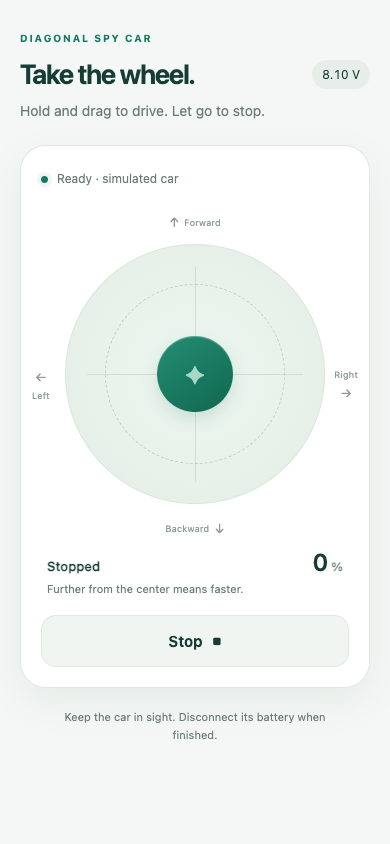
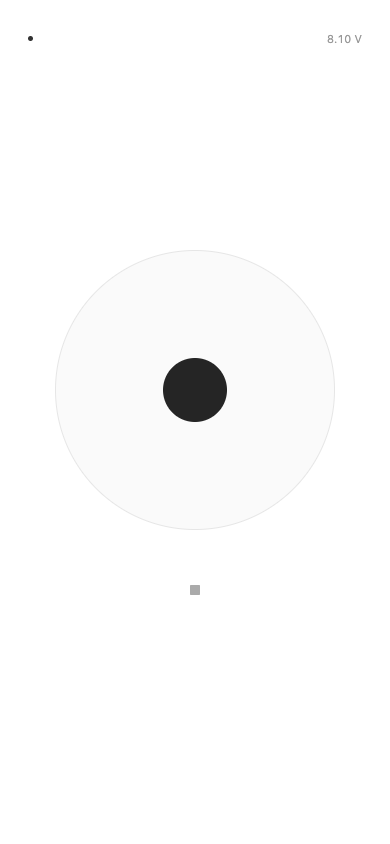
style: strip remote control down to a minimal joystick

diff --git a/firmware/receiver_s2/web/style.css b/firmware/receiver_s2/web/style.css
@@ -1,2 +1,77 @@
-:root{color-scheme:light;--ink:#163c36;--muted:#6b7d76;--teal:#167961;--knob-x:0px;--knob-y:0px;font-family:ui-sans-serif,system-ui,-apple-system,BlinkMacSystemFont,"Segoe UI",sans-serif;background:#f4f7f5;color:var(--ink)}
-*{box-sizing:border-box}body{margin:0;min-height:100dvh;padding:32px 20px max(24px,env(safe-area-inset-bottom));overscroll-behavior:none}.controller{max-width:420px;margin:auto}.eyebrow{font-size:10px;font-weight:750;letter-spacing:.18em;margin:0 0 14px;color:var(--teal)}.heading{display:flex;align-items:center;justify-content:space-between;gap:12px}h1{font-size:clamp(26px,7vw,32px);letter-spacing:-.045em;font-weight:650;margin:0}.battery{font-size:12px;font-variant-numeric:tabular-nums;background:#e7eee9;padding:7px 10px;border-radius:20px;white-space:nowrap}.intro{font-size:14px;color:var(--muted);margin:10px 0 24px;line-height:1.5}.drive-card{background:#fff;border:1px solid #e0e8e2;border-radius:26px;padding:22px 20px 20px;box-shadow:0 14px 38px #173f3210}.status-row{display:flex;align-items:center;gap:9px;min-height:22px}.status-dot{width:7px;height:7px;border-radius:50%;background:#b4bdb7;flex-shrink:0}.status-dot.ready{background:var(--teal);box-shadow:0 0 0 4px #16796112}#status{margin:0;font-size:12px;color:var(--muted);line-height:1.4}.joystick-area{position:relative;margin:24px auto 12px;padding:30px 24px 32px;max-width:330px}.joystick{position:relative;width:100%;aspect-ratio:1;border-radius:50%;background:radial-gradient(circle,#edf6f0 0,#e6f0e8 72%);border:1px solid #d8e7dc;touch-action:none;user-select:none;-webkit-user-select:none;cursor:grab;overflow:hidden;transition:opacity .15s}.joystick[aria-disabled=true]{opacity:.45;cursor:not-allowed}.joystick.held{cursor:grabbing}.joystick-ring{position:absolute;inset:15%;border:1px dashed #bdcfc3;border-radius:50%}.crosshair{position:absolute;background:#cddfd2}.horizontal{top:50%;height:1px;left:8%;right:8%}.vertical{left:50%;width:1px;top:8%;bottom:8%}.knob{position:absolute;width:76px;height:76px;left:calc(50% - 38px);top:calc(50% - 38px);border-radius:50%;background:linear-gradient(145deg,#238f74,#11664f);box-shadow:0 7px 16px #11664f28,inset 0 1px 1px #ffffff50;display:grid;place-items:center;transform:translate(var(--knob-x),var(--knob-y));pointer-events:none}.knob-mark{color:#c9eee0;font-size:25px;opacity:.8}.direction{position:absolute;color:#8a9a91;font-size:13px;display:flex;align-items:center;justify-content:center;gap:5px;pointer-events:none}.direction span{font-size:9px;letter-spacing:.015em}.forward{top:0;left:0;right:0}.backward{bottom:0;left:0;right:0}.left{left:-9px;top:48%;flex-direction:column}.right{right:-9px;top:48%;flex-direction:column}.drive-readout{display:flex;justify-content:space-between;align-items:baseline;padding:0 6px;font-size:13px;font-weight:550}#speed{font-size:24px;font-weight:600;font-variant-numeric:tabular-nums}.percent{font-size:12px;color:var(--muted);margin-left:3px}.hint{font-size:11px;color:var(--muted);margin:6px 6px 20px}button{font:inherit;-webkit-tap-highlight-color:transparent}#stop{width:100%;display:flex;justify-content:center;align-items:center;gap:10px;min-height:52px;border:1px solid #e2e8e3;border-radius:15px;color:var(--ink);background:#f1f5f2;font-size:15px;font-weight:650;cursor:pointer}#stop span{font-size:10px}#stop:active{background:#e1eae4}#stop:focus-visible{outline:3px solid #54ad92;outline-offset:3px}footer{font-size:11px;line-height:1.6;color:var(--muted);text-align:center;max-width:290px;margin:20px auto 0}@media(max-height:740px){body{padding-top:20px}.intro{margin-bottom:16px}.drive-card{padding-top:16px}.joystick-area{max-width:285px;margin-top:16px}.hint{margin-bottom:14px}footer{margin-top:14px}}
+:root {
+  color-scheme: light;
+  font-family: ui-sans-serif, system-ui, -apple-system, sans-serif;
+  color: #202020;
+  background: #fff;
+  --knob-x: 0px;
+  --knob-y: 0px;
+}
+* { box-sizing: border-box; }
+body { margin: 0; overscroll-behavior: none; }
+.controller {
+  min-height: 100dvh;
+  max-width: 400px;
+  margin: auto;
+  padding: max(28px, env(safe-area-inset-top)) 28px max(28px, env(safe-area-inset-bottom));
+  display: flex;
+  flex-direction: column;
+}
+.status-row { display: flex; align-items: center; gap: 10px; min-height: 20px; }
+.status-dot { width: 5px; height: 5px; flex-shrink: 0; border-radius: 50%; background: #ccc; }
+.status-dot.ready { background: #333; }
+#status { font-size: 11px; font-weight: 400; color: #888; margin: 0; }
+#battery { margin-left: auto; color: #999; font-size: 11px; font-variant-numeric: tabular-nums; white-space: nowrap; }
+.controls { flex: 1; display: flex; flex-direction: column; justify-content: center; align-items: center; gap: 36px; padding: 28px 0; }
+.joystick {
+  position: relative;
+  width: min(100%, 280px, 55dvh);
+  aspect-ratio: 1;
+  border: 1px solid #e6e6e6;
+  border-radius: 50%;
+  background: #fafafa;
+  touch-action: none;
+  user-select: none;
+  -webkit-user-select: none;
+  cursor: grab;
+  overflow: hidden;
+}
+.joystick[aria-disabled=true] { opacity: .35; cursor: not-allowed; }
+.joystick.held { cursor: grabbing; }
+.knob {
+  position: absolute;
+  width: 64px;
+  height: 64px;
+  left: calc(50% - 32px);
+  top: calc(50% - 32px);
+  border-radius: 50%;
+  background: #252525;
+  transform: translate(var(--knob-x), var(--knob-y));
+  pointer-events: none;
+}
+#stop {
+  display: grid;
+  place-items: center;
+  width: 48px;
+  height: 48px;
+  padding: 0;
+  border: 0;
+  border-radius: 50%;
+  background: transparent;
+  cursor: pointer;
+  touch-action: manipulation;
+  -webkit-tap-highlight-color: transparent;
+}
+#stop span { width: 10px; height: 10px; border-radius: 1px; background: #aaa; }
+#stop:active { background: #f4f4f4; }
+#stop:focus-visible { outline: 1px solid #555; outline-offset: 2px; }
+.sr-only, .status-row:has(.ready) #status {
+  position: absolute;
+  width: 1px;
+  height: 1px;
+  padding: 0;
+  margin: -1px;
+  overflow: hidden;
+  clip-path: inset(50%);
+  white-space: nowrap;
+  border: 0;
+}

diff --git a/firmware/receiver_s2/web/index.html b/firmware/receiver_s2/web/index.html
@@ -3,37 +3,29 @@
 <head>
   <meta charset="utf-8">
   <meta name="viewport" content="width=device-width,initial-scale=1,viewport-fit=cover">
-  <meta name="theme-color" content="#f4f7f5">
+  <meta name="theme-color" content="#ffffff">
   <meta name="control-token" content="%CONTROL_TOKEN%">
-  <title>Spy Car · Drive</title>
+  <title>Spy Car</title>
   <link rel="stylesheet" href="/style.css">
   <script src="/control.js" defer></script>
 </head>
 <body>
-  <main class="controller">
-    <header>
-      <p class="eyebrow">DIAGONAL SPY CAR</p>
-      <div class="heading"><h1>Take the wheel.</h1><span id="battery" class="battery">— V</span></div>
-      <p class="intro">Hold and drag to drive. Let go to stop.</p>
-    </header>
-    <section class="drive-card" aria-label="Driving controls">
-      <div class="status-row"><span id="connection-dot" class="status-dot"></span><p id="status" role="status" aria-live="polite">Connecting…</p></div>
-      <div class="joystick-area">
-        <span class="direction forward">↑ <span>Forward</span></span>
-        <span class="direction left">← <span>Left</span></span>
-        <div id="joystick" class="joystick" role="group" aria-label="Hold and drag joystick" aria-disabled="true" aria-describedby="drive-hint">
-          <div class="crosshair horizontal"></div><div class="crosshair vertical"></div>
-          <div class="joystick-ring"></div>
-          <div id="knob" class="knob"><span class="knob-mark">✦</span></div>
-        </div>
-        <span class="direction right"><span>Right</span> →</span>
-        <span class="direction backward"><span>Backward</span> ↓</span>
+  <main class="controller" aria-label="Car remote control">
+    <div class="status-row">
+      <span id="connection-dot" class="status-dot" aria-hidden="true"></span>
+      <p id="status" role="status" aria-live="polite">Connecting…</p>
+      <span id="battery">— V</span>
+    </div>
+    <div class="controls">
+      <div id="joystick" class="joystick" role="group" aria-label="Hold and drag joystick" aria-disabled="true" aria-describedby="drive-hint">
+        <div id="knob" class="knob"></div>
       </div>
-      <div class="drive-readout"><span id="drive-state">Stopped</span><span><strong id="speed">0</strong><span class="percent">%</span></span></div>
-      <p id="drive-hint" class="hint">Further from the center means faster.</p>
-      <button id="stop" type="button">Stop <span aria-hidden="true">■</span></button>
-    </section>
-    <footer>Keep the car in sight. Disconnect its battery when finished.</footer>
+      <button id="stop" type="button" aria-label="Stop" title="Stop"><span aria-hidden="true"></span></button>
+    </div>
+    <div class="sr-only">
+      <p id="drive-hint">Hold and drag to drive. Further from the center means faster. Release to stop.</p>
+      <span id="drive-state">Stopped</span><span id="speed">0</span>%
+    </div>
   </main>
 </body>
 </html>

diff --git a/firmware/receiver_s2/web_assets.h b/firmware/receiver_s2/web_assets.h
@@ -6,37 +6,29 @@ static const char CONTROL_INDEX[] PROGMEM = R"SPYCAR(<!doctype html>
 <head>
   <meta charset="utf-8">
   <meta name="viewport" content="width=device-width,initial-scale=1,viewport-fit=cover">
-  <meta name="theme-color" content="#f4f7f5">
+  <meta name="theme-color" content="#ffffff">
   <meta name="control-token" content="%CONTROL_TOKEN%">
-  <title>Spy Car · Drive</title>
+  <title>Spy Car</title>
   <link rel="stylesheet" href="/style.css">
   <script src="/control.js" defer></script>
 </head>
 <body>
-  <main class="controller">
-    <header>
-      <p class="eyebrow">DIAGONAL SPY CAR</p>
-      <div class="heading"><h1>Take the wheel.</h1><span id="battery" class="battery">— V</span></div>
-      <p class="intro">Hold and drag to drive. Let go to stop.</p>
-    </header>
-    <section class="drive-card" aria-label="Driving controls">
-      <div class="status-row"><span id="connection-dot" class="status-dot"></span><p id="status" role="status" aria-live="polite">Connecting…</p></div>
-      <div class="joystick-area">
-        <span class="direction forward">↑ <span>Forward</span></span>
-        <span class="direction left">← <span>Left</span></span>
-        <div id="joystick" class="joystick" role="group" aria-label="Hold and drag joystick" aria-disabled="true" aria-describedby="drive-hint">
-          <div class="crosshair horizontal"></div><div class="crosshair vertical"></div>
-          <div class="joystick-ring"></div>
-          <div id="knob" class="knob"><span class="knob-mark">✦</span></div>
-        </div>
-        <span class="direction right"><span>Right</span> →</span>
-        <span class="direction backward"><span>Backward</span> ↓</span>
+  <main class="controller" aria-label="Car remote control">
+    <div class="status-row">
+      <span id="connection-dot" class="status-dot" aria-hidden="true"></span>
+      <p id="status" role="status" aria-live="polite">Connecting…</p>
+      <span id="battery">— V</span>
+    </div>
+    <div class="controls">
+      <div id="joystick" class="joystick" role="group" aria-label="Hold and drag joystick" aria-disabled="true" aria-describedby="drive-hint">
+        <div id="knob" class="knob"></div>
       </div>
-      <div class="drive-readout"><span id="drive-state">Stopped</span><span><strong id="speed">0</strong><span class="percent">%</span></span></div>
-      <p id="drive-hint" class="hint">Further from the center means faster.</p>
-      <button id="stop" type="button">Stop <span aria-hidden="true">■</span></button>
-    </section>
-    <footer>Keep the car in sight. Disconnect its battery when finished.</footer>
+      <button id="stop" type="button" aria-label="Stop" title="Stop"><span aria-hidden="true"></span></button>
+    </div>
+    <div class="sr-only">
+      <p id="drive-hint">Hold and drag to drive. Further from the center means faster. Release to stop.</p>
+      <span id="drive-state">Stopped</span><span id="speed">0</span>%
+    </div>
   </main>
 </body>
 </html>
@@ -199,6 +191,81 @@ static const char CONTROL_JS[] PROGMEM = R"SPYCAR(/* Same-host controller. Every
 })();
 )SPYCAR";
 
-static const char CONTROL_CSS[] PROGMEM = R"SPYCAR(:root{color-scheme:light;--ink:#163c36;--muted:#6b7d76;--teal:#167961;--knob-x:0px;--knob-y:0px;font-family:ui-sans-serif,system-ui,-apple-system,BlinkMacSystemFont,"Segoe UI",sans-serif;background:#f4f7f5;color:var(--ink)}
-*{box-sizing:border-box}body{margin:0;min-height:100dvh;padding:32px 20px max(24px,env(safe-area-inset-bottom));overscroll-behavior:none}.controller{max-width:420px;margin:auto}.eyebrow{font-size:10px;font-weight:750;letter-spacing:.18em;margin:0 0 14px;color:var(--teal)}.heading{display:flex;align-items:center;justify-content:space-between;gap:12px}h1{font-size:clamp(26px,7vw,32px);letter-spacing:-.045em;font-weight:650;margin:0}.battery{font-size:12px;font-variant-numeric:tabular-nums;background:#e7eee9;padding:7px 10px;border-radius:20px;white-space:nowrap}.intro{font-size:14px;color:var(--muted);margin:10px 0 24px;line-height:1.5}.drive-card{background:#fff;border:1px solid #e0e8e2;border-radius:26px;padding:22px 20px 20px;box-shadow:0 14px 38px #173f3210}.status-row{display:flex;align-items:center;gap:9px;min-height:22px}.status-dot{width:7px;height:7px;border-radius:50%;background:#b4bdb7;flex-shrink:0}.status-dot.ready{background:var(--teal);box-shadow:0 0 0 4px #16796112}#status{margin:0;font-size:12px;color:var(--muted);line-height:1.4}.joystick-area{position:relative;margin:24px auto 12px;padding:30px 24px 32px;max-width:330px}.joystick{position:relative;width:100%;aspect-ratio:1;border-radius:50%;background:radial-gradient(circle,#edf6f0 0,#e6f0e8 72%);border:1px solid #d8e7dc;touch-action:none;user-select:none;-webkit-user-select:none;cursor:grab;overflow:hidden;transition:opacity .15s}.joystick[aria-disabled=true]{opacity:.45;cursor:not-allowed}.joystick.held{cursor:grabbing}.joystick-ring{position:absolute;inset:15%;border:1px dashed #bdcfc3;border-radius:50%}.crosshair{position:absolute;background:#cddfd2}.horizontal{top:50%;height:1px;left:8%;right:8%}.vertical{left:50%;width:1px;top:8%;bottom:8%}.knob{position:absolute;width:76px;height:76px;left:calc(50% - 38px);top:calc(50% - 38px);border-radius:50%;background:linear-gradient(145deg,#238f74,#11664f);box-shadow:0 7px 16px #11664f28,inset 0 1px 1px #ffffff50;display:grid;place-items:center;transform:translate(var(--knob-x),var(--knob-y));pointer-events:none}.knob-mark{color:#c9eee0;font-size:25px;opacity:.8}.direction{position:absolute;color:#8a9a91;font-size:13px;display:flex;align-items:center;justify-content:center;gap:5px;pointer-events:none}.direction span{font-size:9px;letter-spacing:.015em}.forward{top:0;left:0;right:0}.backward{bottom:0;left:0;right:0}.left{left:-9px;top:48%;flex-direction:column}.right{right:-9px;top:48%;flex-direction:column}.drive-readout{display:flex;justify-content:space-between;align-items:baseline;padding:0 6px;font-size:13px;font-weight:550}#speed{font-size:24px;font-weight:600;font-variant-numeric:tabular-nums}.percent{font-size:12px;color:var(--muted);margin-left:3px}.hint{font-size:11px;color:var(--muted);margin:6px 6px 20px}button{font:inherit;-webkit-tap-highlight-color:transparent}#stop{width:100%;display:flex;justify-content:center;align-items:center;gap:10px;min-height:52px;border:1px solid #e2e8e3;border-radius:15px;color:var(--ink);background:#f1f5f2;font-size:15px;font-weight:650;cursor:pointer}#stop span{font-size:10px}#stop:active{background:#e1eae4}#stop:focus-visible{outline:3px solid #54ad92;outline-offset:3px}footer{font-size:11px;line-height:1.6;color:var(--muted);text-align:center;max-width:290px;margin:20px auto 0}@media(max-height:740px){body{padding-top:20px}.intro{margin-bottom:16px}.drive-card{padding-top:16px}.joystick-area{max-width:285px;margin-top:16px}.hint{margin-bottom:14px}footer{margin-top:14px}}
+static const char CONTROL_CSS[] PROGMEM = R"SPYCAR(:root {
+  color-scheme: light;
+  font-family: ui-sans-serif, system-ui, -apple-system, sans-serif;
+  color: #202020;
+  background: #fff;
+  --knob-x: 0px;
+  --knob-y: 0px;
+}
+* { box-sizing: border-box; }
+body { margin: 0; overscroll-behavior: none; }
+.controller {
+  min-height: 100dvh;
+  max-width: 400px;
+  margin: auto;
+  padding: max(28px, env(safe-area-inset-top)) 28px max(28px, env(safe-area-inset-bottom));
+  display: flex;
+  flex-direction: column;
+}
+.status-row { display: flex; align-items: center; gap: 10px; min-height: 20px; }
+.status-dot { width: 5px; height: 5px; flex-shrink: 0; border-radius: 50%; background: #ccc; }
+.status-dot.ready { background: #333; }
+#status { font-size: 11px; font-weight: 400; color: #888; margin: 0; }
+#battery { margin-left: auto; color: #999; font-size: 11px; font-variant-numeric: tabular-nums; white-space: nowrap; }
+.controls { flex: 1; display: flex; flex-direction: column; justify-content: center; align-items: center; gap: 36px; padding: 28px 0; }
+.joystick {
+  position: relative;
+  width: min(100%, 280px, 55dvh);
+  aspect-ratio: 1;
+  border: 1px solid #e6e6e6;
+  border-radius: 50%;
+  background: #fafafa;
+  touch-action: none;
+  user-select: none;
+  -webkit-user-select: none;
+  cursor: grab;
+  overflow: hidden;
+}
+.joystick[aria-disabled=true] { opacity: .35; cursor: not-allowed; }
+.joystick.held { cursor: grabbing; }
+.knob {
+  position: absolute;
+  width: 64px;
+  height: 64px;
+  left: calc(50% - 32px);
+  top: calc(50% - 32px);
+  border-radius: 50%;
+  background: #252525;
+  transform: translate(var(--knob-x), var(--knob-y));
+  pointer-events: none;
+}
+#stop {
+  display: grid;
+  place-items: center;
+  width: 48px;
+  height: 48px;
+  padding: 0;
+  border: 0;
+  border-radius: 50%;
+  background: transparent;
+  cursor: pointer;
+  touch-action: manipulation;
+  -webkit-tap-highlight-color: transparent;
+}
+#stop span { width: 10px; height: 10px; border-radius: 1px; background: #aaa; }
+#stop:active { background: #f4f4f4; }
+#stop:focus-visible { outline: 1px solid #555; outline-offset: 2px; }
+.sr-only, .status-row:has(.ready) #status {
+  position: absolute;
+  width: 1px;
+  height: 1px;
+  padding: 0;
+  margin: -1px;
+  overflow: hidden;
+  clip-path: inset(50%);
+  white-space: nowrap;
+  border: 0;
+}
 )SPYCAR";
